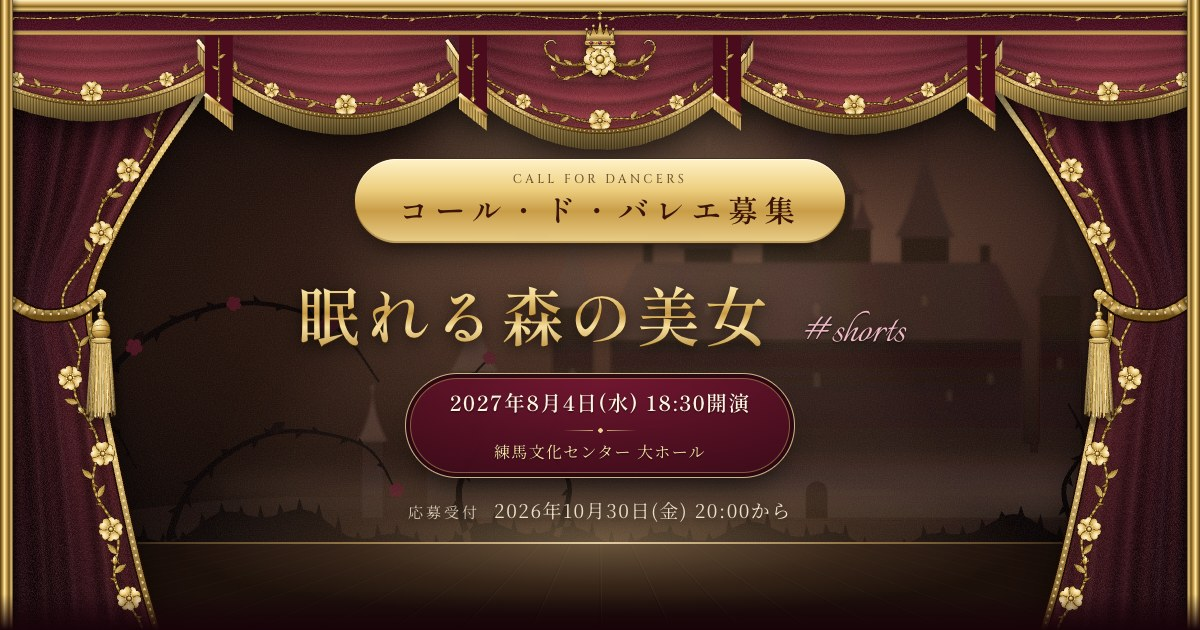
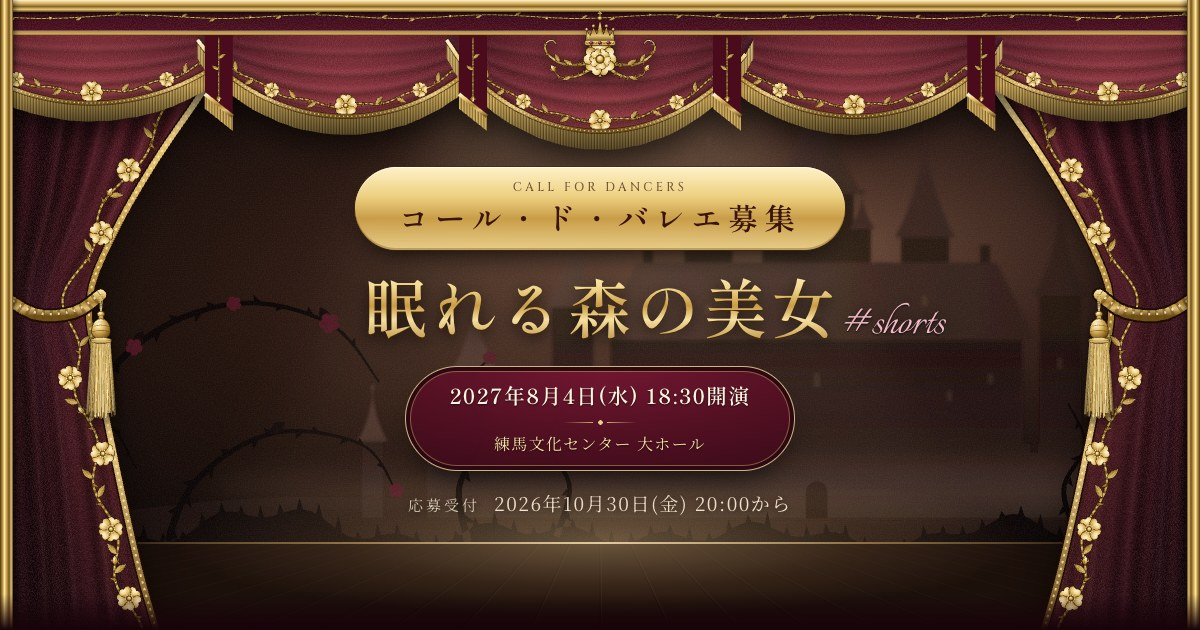
トップの題字を「眠れる森の美女」だけで真ん中に（#shorts は右に添える）・共有画像を撮り直す

diff --git a/index.html b/index.html
@@ -27,7 +27,7 @@
 <meta name="description" content="国内外のプロバレエダンサーと一般公募のコール・ド・バレエが共演する本格バレエ公演。2027年8月4日(水) 18:30開演、練馬文化センター 大ホールで『眠れる森の美女 #shorts』を上演。コール・ド・バレエは一般公募（応募受付は2026年10月30日(金) 20:00から）。出演者は動画の公開に合わせて順に発表します。" />
 <meta property="og:title" content="眠れる森の美女 #shorts | 2027.8.4 練馬文化センター 大ホール" />
 <meta property="og:description" content="2027年8月4日(水) 18:30開演、練馬文化センター 大ホールで上演。コール・ド・バレエは一般公募（応募受付は2026年10月30日(金) 20:00から）。" />
-<meta property="og:image" content="https://balletshorts.confy.co.jp/images/og/top.jpg?v=20261029" />
+<meta property="og:image" content="https://balletshorts.confy.co.jp/images/og/top.jpg?v=20261029b" />
 <meta property="og:image:width" content="1200" />
 <meta property="og:image:height" content="630" />
 <meta property="og:image:type" content="image/jpeg" />
@@ -39,7 +39,7 @@
 <meta name="twitter:card" content="summary_large_image" />
 <meta name="twitter:title" content="眠れる森の美女 #shorts | 2027.8.4 練馬文化センター 大ホール" />
 <meta name="twitter:description" content="2027年8月4日(水) 18:30開演　練馬文化センター 大ホール。コール・ド・バレエは一般公募（応募受付は2026年10月30日(金) 20:00から）。" />
-<meta name="twitter:image" content="https://balletshorts.confy.co.jp/images/og/top.jpg?v=20261029" />
+<meta name="twitter:image" content="https://balletshorts.confy.co.jp/images/og/top.jpg?v=20261029b" />
 <meta name="twitter:image:alt" content="『眠れる森の美女 #shorts』2027年8月4日(水) 18:30開演 練馬文化センター 大ホール" />
 
 <!-- canonical / favicon / theme-color -->
@@ -121,7 +121,7 @@
 <link href="https://fonts.googleapis.com/css2?family=Cinzel:wght@400;500&family=Cormorant+Garamond:ital,wght@0,300;0,400;0,500;1,400&family=Italianno&family=Noto+Sans+JP:wght@300;400;500&family=Noto+Serif+JP:wght@300;400;500;600&display=swap" rel="stylesheet">
 <!-- 見出しの明朝（Shippori Mincho）は、このページの見出しで使う字だけを読む -->
 <link href="https://fonts.googleapis.com/css2?family=Shippori+Mincho:wght@500;600&text=%23%28%290123456789%3ACFNOTYbehorstu%E3%80%81%E3%80%82%E3%80%8C%E3%80%8D%E3%80%8E%E3%80%8F%E3%81%82%E3%81%84%E3%81%8A%E3%81%8B%E3%81%8C%E3%81%93%E3%81%97%E3%81%98%E3%81%99%E3%81%9B%E3%81%9F%E3%81%A0%E3%81%A1%E3%81%A4%E3%81%A6%E3%81%A7%E3%81%A8%E3%81%AA%E3%81%AB%E3%81%AD%E3%81%AE%E3%81%AF%E3%81%BE%E3%82%82%E3%82%83%E3%82%89%E3%82%8A%E3%82%8B%E3%82%8C%E3%82%93%E3%82%A4%E3%82%A8%E3%82%AA%E3%82%AB%E3%82%B3%E3%82%B5%E3%82%B8%E3%82%B9%E3%82%BB%E3%82%BF%E3%83%87%E3%83%88%E3%83%89%E3%83%8A%E3%83%90%E3%83%95%E3%83%9B%E3%83%9C%E3%83%A9%E3%83%AA%E3%83%AB%E3%83%AC%E3%83%AD%E3%83%B3%E3%83%BB%E3%83%BC%E4%B8%80%E4%BA%88%E4%BC%9A%E5%85%AC%E5%87%BA%E5%8B%9F%E5%8C%96%E5%8F%B0%E5%A4%A7%E5%A5%B3%E5%A6%96%E5%A7%AB%E5%AD%90%E5%AE%9A%E5%AE%9B%E5%B9%B4%E5%BC%8F%E5%BE%85%E6%89%89%E6%8B%9B%E6%96%87%E6%96%AD%E6%97%A5%E6%9C%88%E6%A0%AA%E6%A3%AE%E6%B0%B4%E6%B1%BA%E6%BC%94%E7%89%A9%E7%8A%B6%E7%8E%8B%E7%9C%A0%E7%9F%A5%E7%A4%BE%E7%A5%9D%E7%A6%8F%E7%AB%8B%E7%B2%BE%E7%B7%B4%E7%BE%8E%E8%80%85%E8%88%9E%E8%88%AC%E8%A8%BA%E8%AA%9E%E9%96%8B%E9%9D%92%E9%A6%AC%E9%B3%A5&display=swap" rel="stylesheet">
-<link rel="stylesheet" href="css/sb-theater.css?v=20261029">
+<link rel="stylesheet" href="css/sb-theater.css?v=20261029b">
 <link rel="stylesheet" href="css/sb-oshi.css?v=20261007">
 
 <style>

diff --git a/audition.html b/audition.html
@@ -28,7 +28,7 @@
 <meta name="description" content="『眠れる森の美女 #shorts』コール・ド・バレエ募集。2027年8月4日(水) 18:30開演、練馬文化センター 大ホール。プロローグと第1幕を中心とした群舞を一般公募します（応募受付は2026年10月30日(金) 20:00から）。出演無償・衣裳主催負担・チケットノルマなし。" />
 <meta property="og:title" content="コール・ド・バレエ募集『眠れる森の美女 #shorts』" />
 <meta property="og:description" content="2027年8月4日(水) 18:30開演、練馬文化センター 大ホール。本田千晃（ちあこちゃんねる）と、国内外のプロダンサーと同じ舞台に立つコール・ド・バレエを一般公募します（応募受付は2026年10月30日(金) 20:00から）。" />
-<meta property="og:image" content="https://balletshorts.confy.co.jp/images/og/audition.jpg?v=20261029" />
+<meta property="og:image" content="https://balletshorts.confy.co.jp/images/og/audition.jpg?v=20261029b" />
 <meta property="og:image:type" content="image/jpeg" />
 <meta property="og:image:width" content="1200" />
 <meta property="og:image:height" content="630" />
@@ -40,7 +40,7 @@
 <meta name="twitter:card" content="summary_large_image" />
 <meta name="twitter:title" content="コール・ド・バレエ募集『眠れる森の美女 #shorts』" />
 <meta name="twitter:description" content="2027年8月4日(水) 18:30開演、練馬文化センター 大ホール。コール・ド・バレエを一般公募します（応募受付は2026年10月30日(金) 20:00から）。" />
-<meta name="twitter:image" content="https://balletshorts.confy.co.jp/images/og/audition.jpg?v=20261029" />
+<meta name="twitter:image" content="https://balletshorts.confy.co.jp/images/og/audition.jpg?v=20261029b" />
 <meta name="twitter:image:alt" content="『眠れる森の美女 #shorts』コール・ド・バレエ募集　2027年8月4日(水) 18:30開演　練馬文化センター 大ホール　応募受付 2026年10月末から" />
 
 <!-- canonical / favicon / theme-color -->
@@ -421,7 +421,7 @@
   .ap-done { box-shadow: 0 0 0 6px var(--ivory), 0 0 0 7px rgba(179,154,98,0.55); }
   .ap-btn { background: linear-gradient(180deg, #9C3871, #832A5C 55%, #651D46); box-shadow: inset 0 1px 0 rgba(255,255,255,0.2), 0 0 0 1px rgba(243,223,162,0.6), 0 14px 26px -12px rgba(43,24,16,0.6); }
 </style>
-<link rel="stylesheet" href="css/sb-theater.css?v=20261029">
+<link rel="stylesheet" href="css/sb-theater.css?v=20261029b">
 </head>
 <body class="th">
 

diff --git a/css/sb-theater.css b/css/sb-theater.css
@@ -136,6 +136,13 @@ html.th-html { scroll-behavior: smooth; scroll-padding-top: calc(var(--th-head-h
 @keyframes th-sweep { 0% { background-position: 170% 0, 0 0; } 45%, 100% { background-position: -70% 0, 0 0; } }
 .th-title__tag { display: block; margin-top: 6px; font-family: 'Italianno', cursive; font-weight: 400; font-size: .7em; line-height: 1; letter-spacing: 0; color: var(--th-rose); text-shadow: var(--th-txt-shadow); }
 @media (min-width: 700px) { .th-title__tag { display: inline-block; margin: 0 0 0 .1em; font-size: .62em; } }
+/* 「眠れる森の美女」だけで真ん中を取る（#shorts は右に添えるだけで、真ん中の計算に入れない・2026-10-29 岩月「眠れる森の美女で真ん中来るように」）。
+   左右を同じ幅（1fr）にした3列の真ん中に題を置く。題の字の間隔（0.05em）が最後の字の後ろにも付く分は、右の余白を引いてそろえる */
+@media (min-width: 700px) {
+  .th-title:has(> .th-title__tag) { display: grid; grid-template-columns: minmax(0, 1fr) auto minmax(0, 1fr); align-items: baseline; }
+  .th-title:has(> .th-title__tag) > .th-foil { grid-column: 2; margin-right: -.05em; }
+  .th-title:has(> .th-title__tag) > .th-title__tag { grid-column: 3; justify-self: start; white-space: nowrap; }
+}
 .th-sub { margin-top: 6px; font-family: 'Italianno', cursive; font-size: 27px; line-height: 1.2; color: var(--th-gold-ink); }
 @media (min-width: 700px) { .th-sub { margin-top: 10px; font-size: 36px; } }
 .th-billing { position: relative; display: inline-block; margin-top: 16px; padding: 13px 28px 14px; border-radius: 30px; background: radial-gradient(120% 150% at 50% 0%, rgba(108,32,75,0.95), rgba(37,9,25,0.96)); box-shadow: inset 0 0 0 1px rgba(243,223,162,0.8), inset 0 0 0 5px rgba(37,9,25,0.96), inset 0 0 0 6px rgba(217,181,103,0.45), 0 20px 34px -16px rgba(0,0,0,0.85); text-shadow: 0 1px 2px rgba(0,0,0,0.6); }

diff --git a/archive.html b/archive.html
@@ -290,7 +290,7 @@
   p, li, dd { text-wrap: pretty; }
 </style>
 <!-- ヘッダーとフッターは劇場の幕の形（全ページ共通） -->
-<link rel="stylesheet" href="/css/sb-theater.css?v=20261029">
+<link rel="stylesheet" href="/css/sb-theater.css?v=20261029b">
 </head>
 <body>
 

diff --git a/archive/giselle-2026.html b/archive/giselle-2026.html
@@ -454,7 +454,7 @@
   p, li, dd { text-wrap: pretty; }
 </style>
 <!-- ヘッダーとフッターは劇場の幕の形（全ページ共通） -->
-<link rel="stylesheet" href="/css/sb-theater.css?v=20261029">
+<link rel="stylesheet" href="/css/sb-theater.css?v=20261029b">
 </head>
 <body>
 

diff --git a/beginners-guide.html b/beginners-guide.html
@@ -330,7 +330,7 @@
   p, li, dd { text-wrap: pretty; }
 </style>
 <!-- ヘッダーとフッターは劇場の幕の形（全ページ共通） -->
-<link rel="stylesheet" href="/css/sb-theater.css?v=20261029">
+<link rel="stylesheet" href="/css/sb-theater.css?v=20261029b">
 </head>
 <body>
 

diff --git a/cast/fukuoka-yudai.html b/cast/fukuoka-yudai.html
@@ -226,7 +226,7 @@
   p, li, dd { text-wrap: pretty; }
 </style>
 <!-- ヘッダーとフッターは劇場の幕の形（全ページ共通） -->
-<link rel="stylesheet" href="/css/sb-theater.css?v=20261029">
+<link rel="stylesheet" href="/css/sb-theater.css?v=20261029b">
 </head>
 <body>
 

diff --git a/cast/higashino-mizuki.html b/cast/higashino-mizuki.html
@@ -220,7 +220,7 @@
   p, li, dd { text-wrap: pretty; }
 </style>
 <!-- ヘッダーとフッターは劇場の幕の形（全ページ共通） -->
-<link rel="stylesheet" href="/css/sb-theater.css?v=20261029">
+<link rel="stylesheet" href="/css/sb-theater.css?v=20261029b">
 </head>
 <body>
 

diff --git a/cast/honda-chiaki.html b/cast/honda-chiaki.html
@@ -226,7 +226,7 @@
   p, li, dd { text-wrap: pretty; }
 </style>
 <!-- ヘッダーとフッターは劇場の幕の形（全ページ共通） -->
-<link rel="stylesheet" href="/css/sb-theater.css?v=20261029">
+<link rel="stylesheet" href="/css/sb-theater.css?v=20261029b">
 </head>
 <body>
 

diff --git a/cast/kaminaka-yuki.html b/cast/kaminaka-yuki.html
@@ -220,7 +220,7 @@
   p, li, dd { text-wrap: pretty; }
 </style>
 <!-- ヘッダーとフッターは劇場の幕の形（全ページ共通） -->
-<link rel="stylesheet" href="/css/sb-theater.css?v=20261029">
+<link rel="stylesheet" href="/css/sb-theater.css?v=20261029b">
 </head>
 <body>
 

diff --git a/cast/morita-ami.html b/cast/morita-ami.html
@@ -220,7 +220,7 @@
   p, li, dd { text-wrap: pretty; }
 </style>
 <!-- ヘッダーとフッターは劇場の幕の形（全ページ共通） -->
-<link rel="stylesheet" href="/css/sb-theater.css?v=20261029">
+<link rel="stylesheet" href="/css/sb-theater.css?v=20261029b">
 </head>
 <body>
 

diff --git a/cast/naito-ami.html b/cast/naito-ami.html
@@ -223,7 +223,7 @@
   p, li, dd { text-wrap: pretty; }
 </style>
 <!-- ヘッダーとフッターは劇場の幕の形（全ページ共通） -->
-<link rel="stylesheet" href="/css/sb-theater.css?v=20261029">
+<link rel="stylesheet" href="/css/sb-theater.css?v=20261029b">
 </head>
 <body>
 
